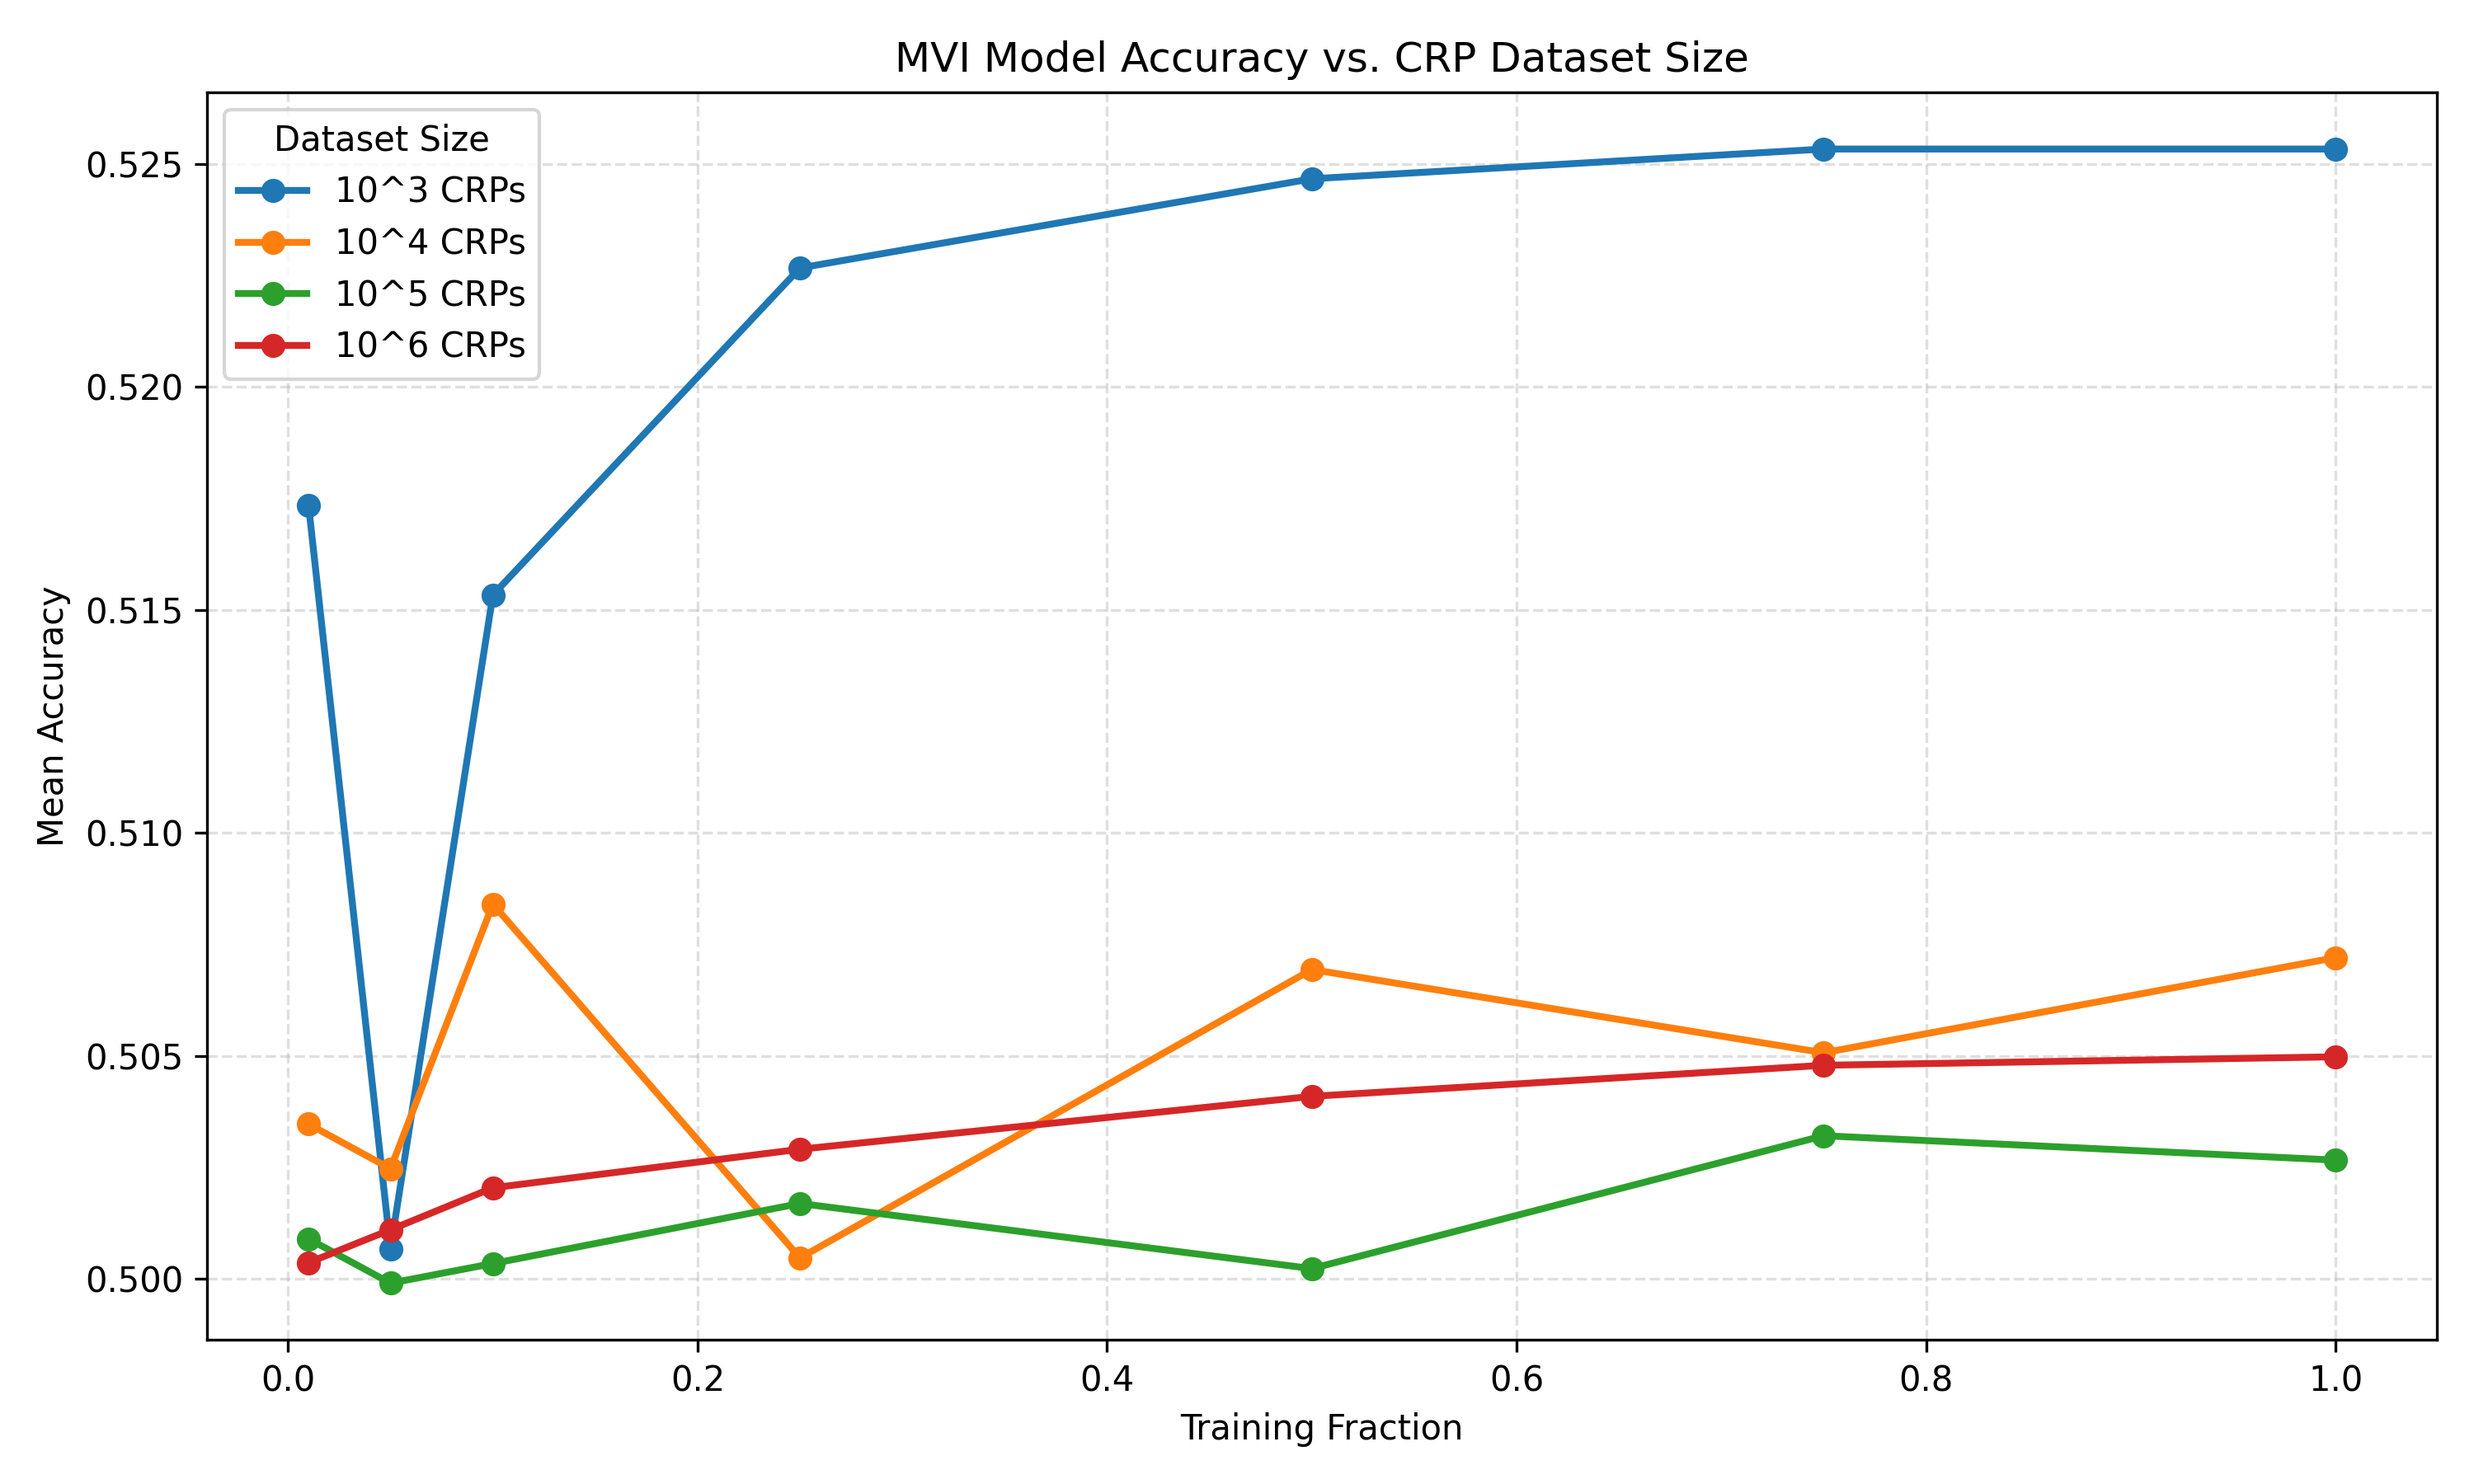
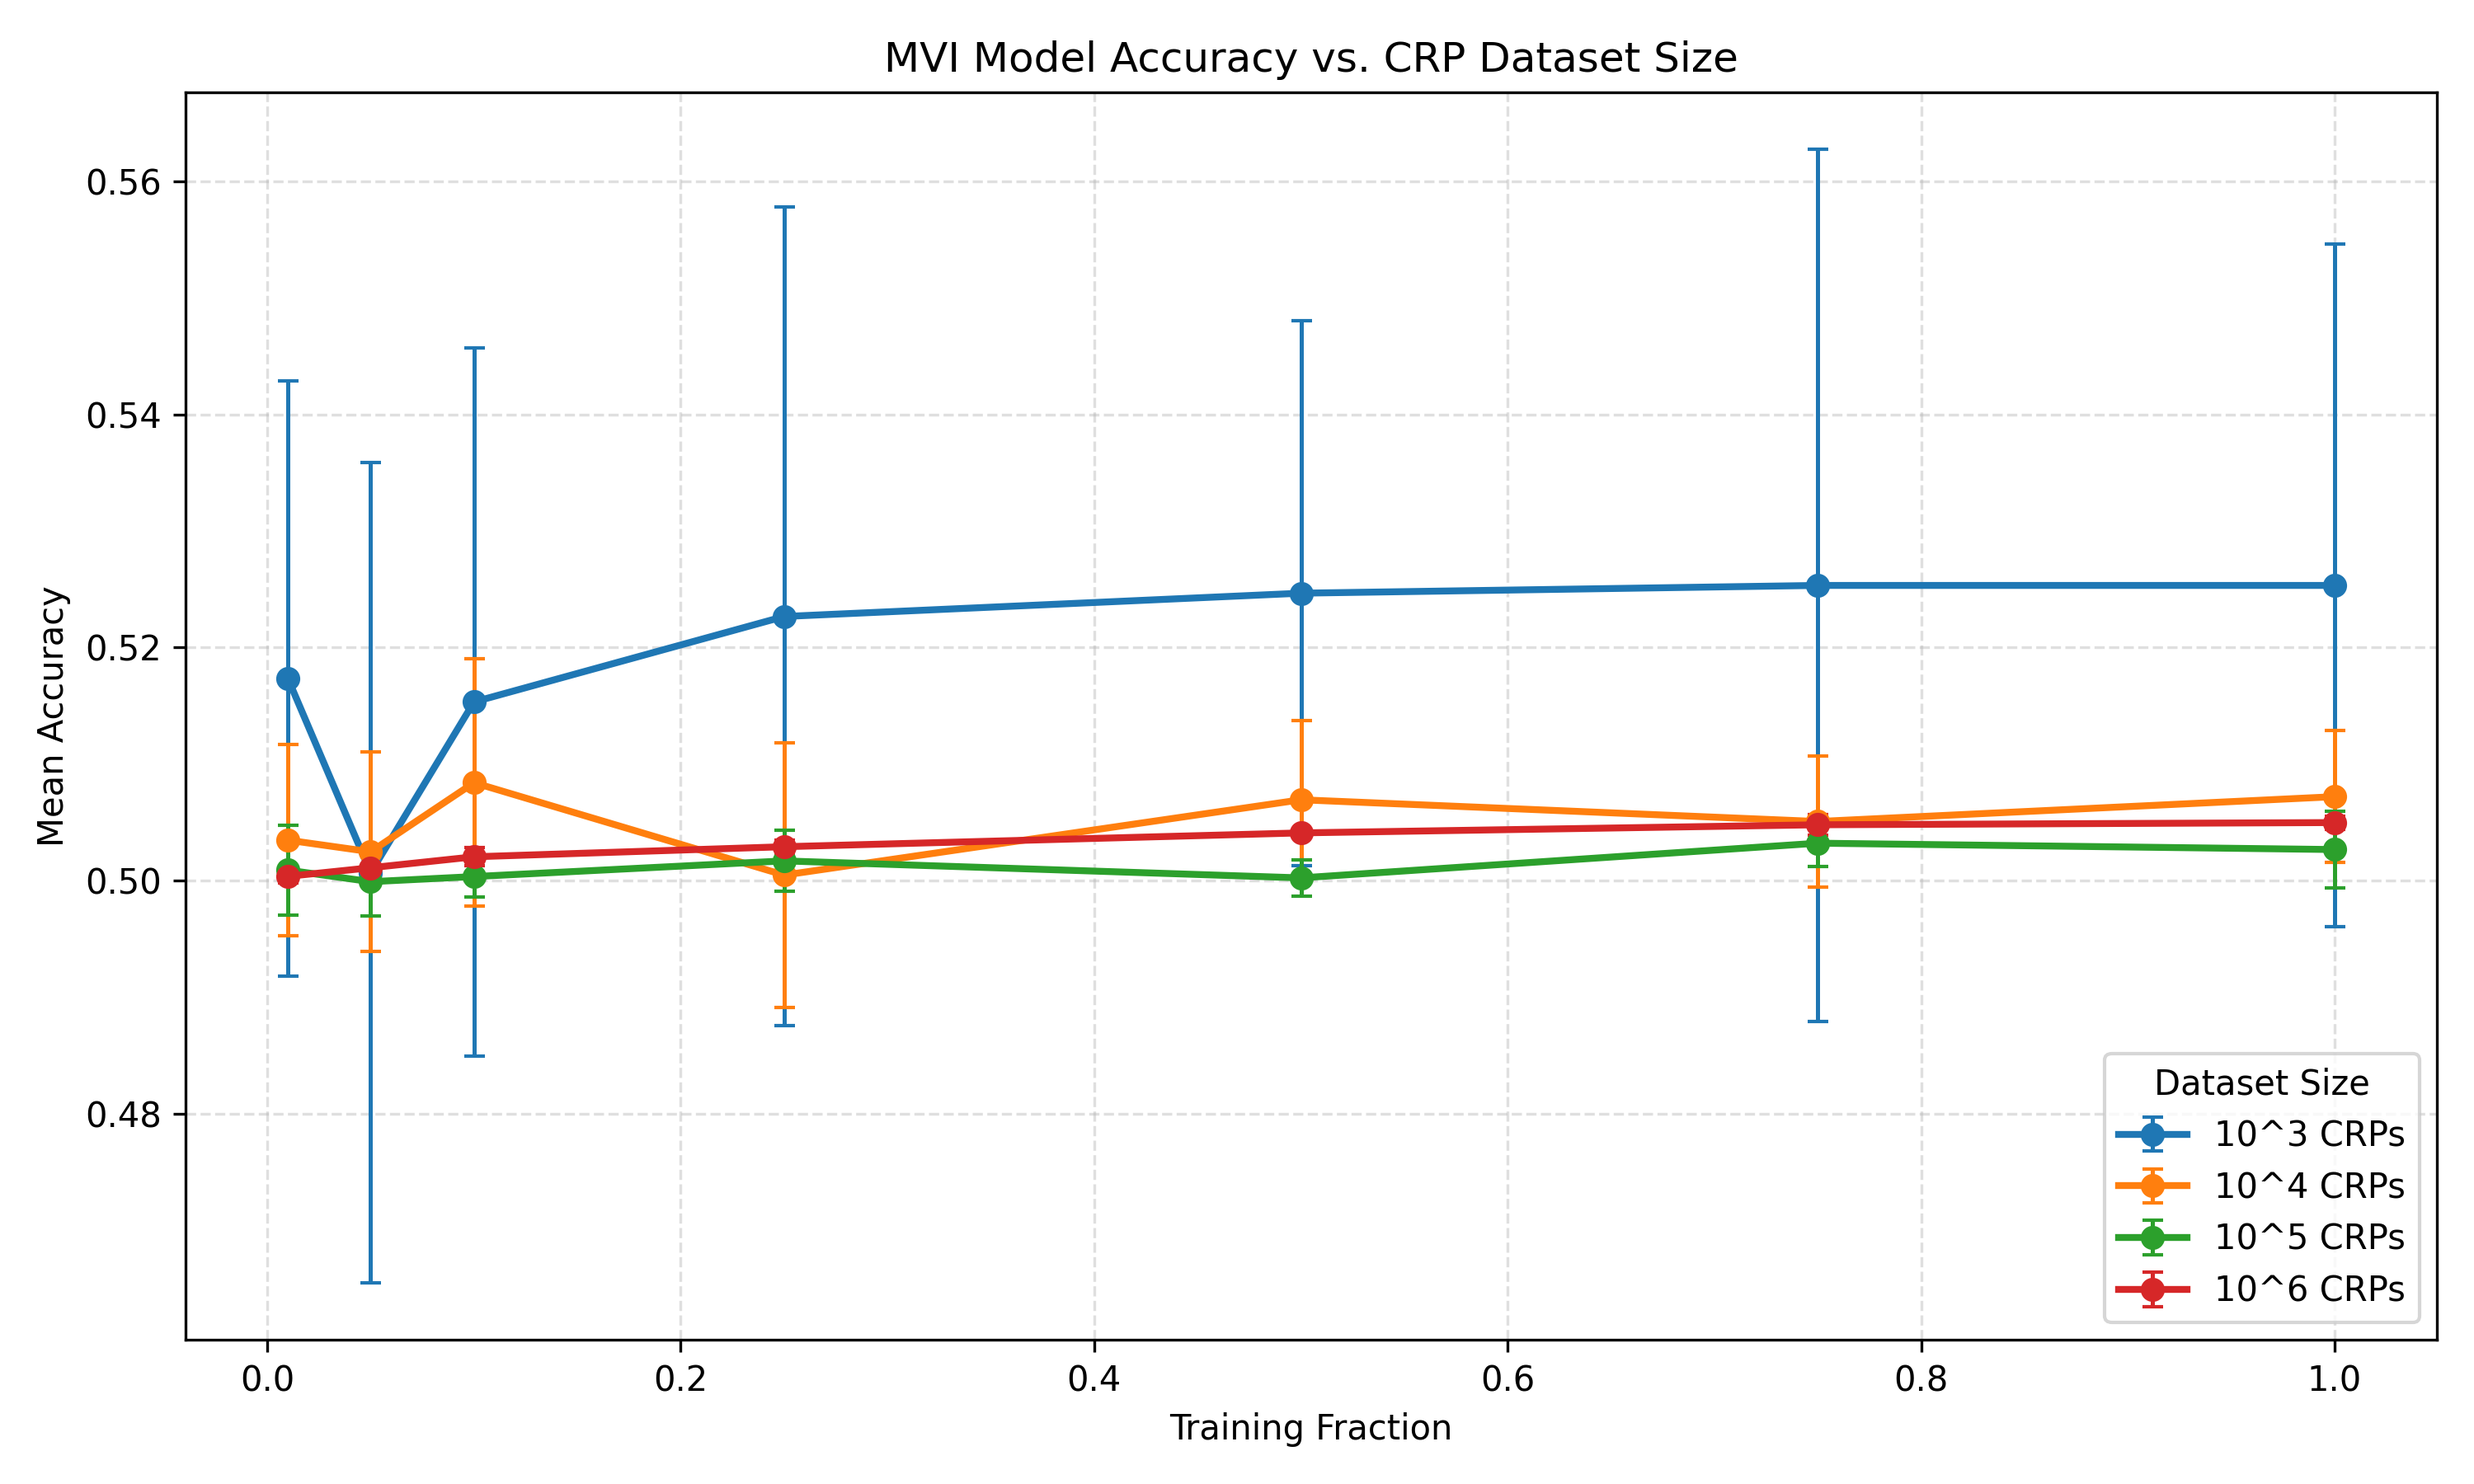
Error bars added for combined mvi graph

diff --git a/LogisticRegressionModel/data_visualization/plot_learning_curve_10^3-10^6_mvi.py b/LogisticRegressionModel/data_visualization/plot_learning_curve_10^3-10^6_mvi.py
@@ -13,16 +13,23 @@ plt.figure(figsize=(10, 6))
 for label, file in csv_files.items():
     df = pd.read_csv(file)
 
-    mvi_df = df[df['model'] == 'logreg']
+    logreg_df = df[df['model'] == 'logreg']
 
-    # x-axis = train_frac
-    x = mvi_df['train_frac']
+    x = logreg_df['train_frac']
+    y = logreg_df['mean_accuracy']
+    yerr = logreg_df['std_accuracy']
 
-    # y-axis = mean_accuracy
-    y = mvi_df['mean_accuracy']
-
-    # Plot each dataset's curve
-    plt.plot(x, y, marker='o', linewidth=2, label=label)
+    # Plot with error bars
+    plt.errorbar(
+        x,
+        y,
+        yerr=yerr,
+        marker='o',
+        capsize=3,
+        elinewidth=1.2,
+        linewidth=2,
+        label=label
+    )
 
 # Formatting
 plt.title("MVI Model Accuracy vs. CRP Dataset Size")
